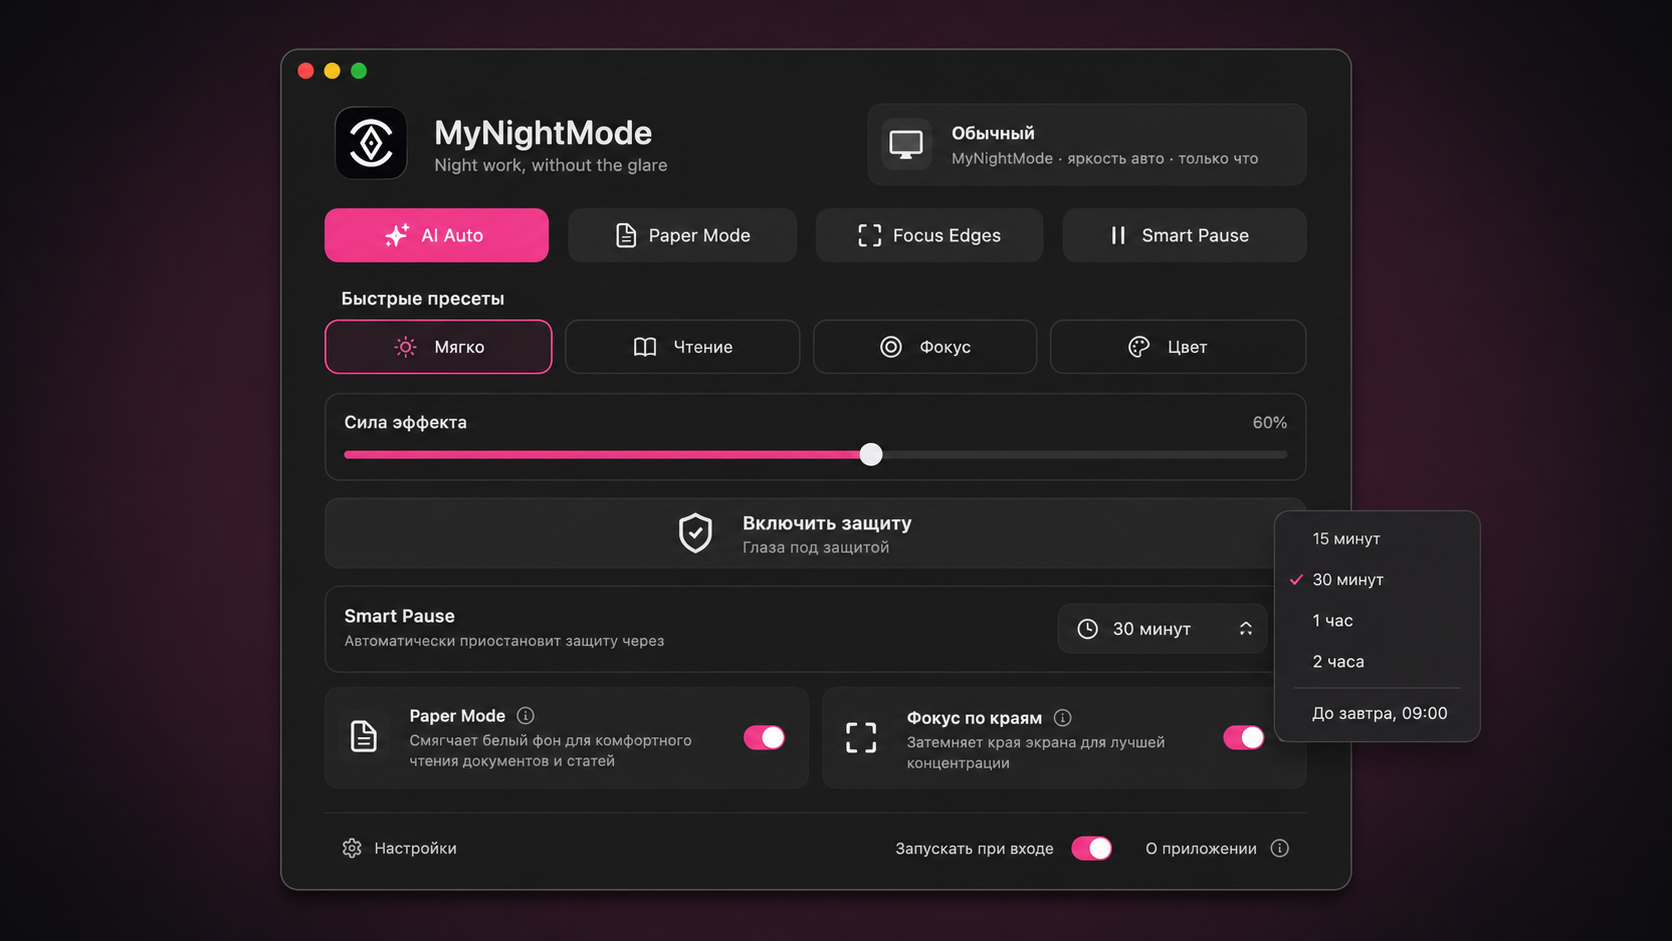
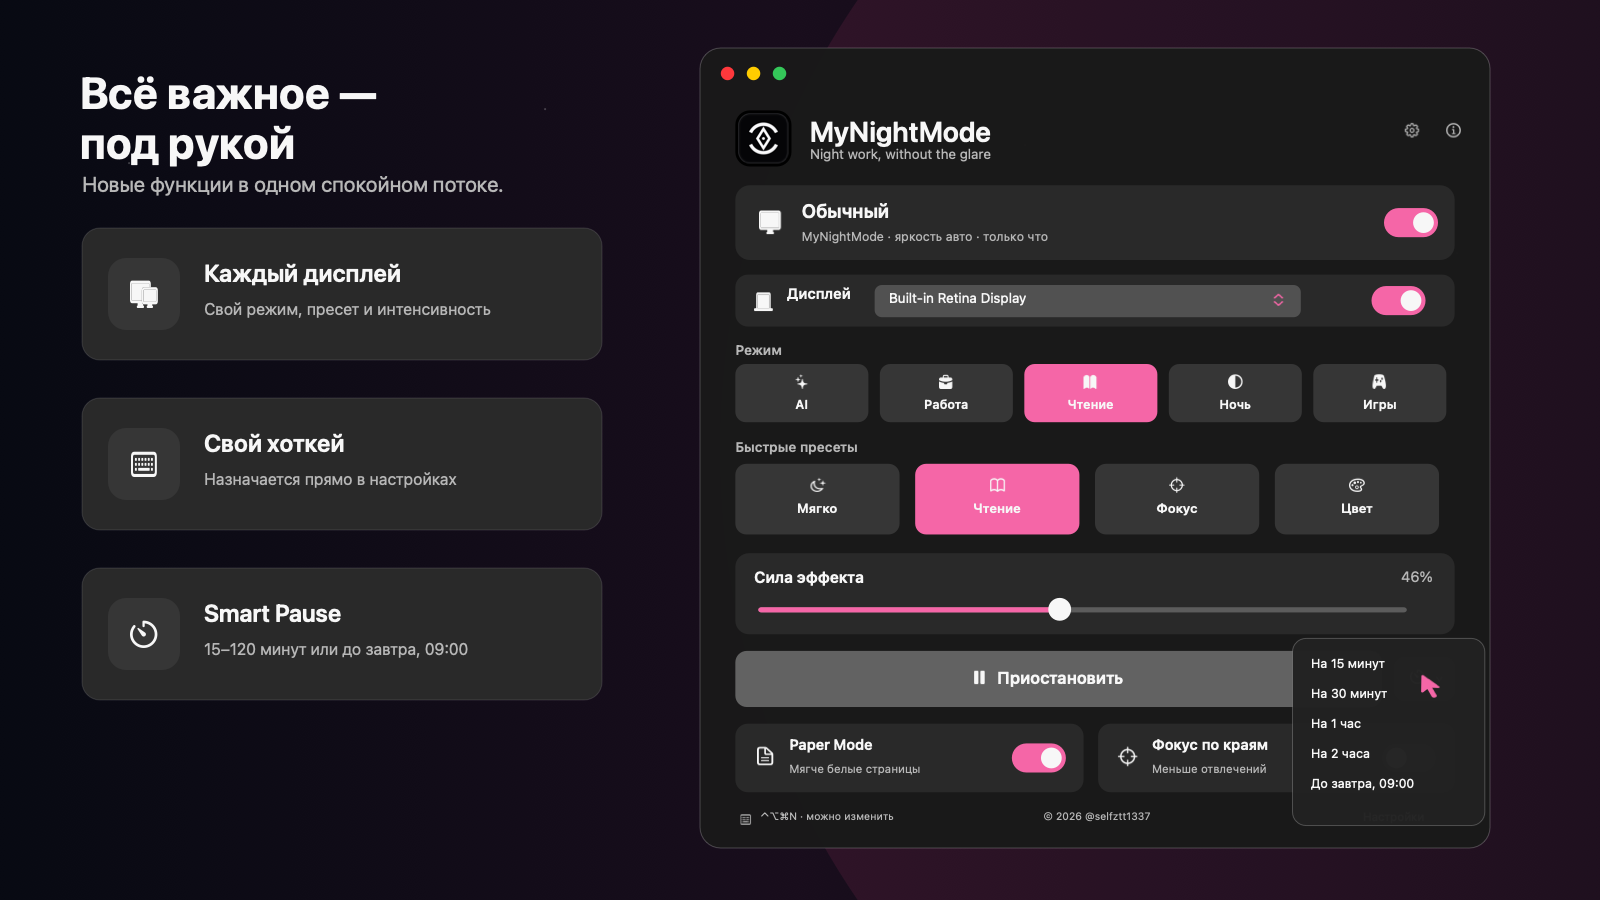
docs: refresh README product visuals

diff --git a/scripts/generate_readme_visuals.swift b/scripts/generate_readme_visuals.swift
@@ -1,0 +1,353 @@
+import AppKit
+import ImageIO
+import UniformTypeIdentifiers
+
+private let pink = NSColor(calibratedRed: 0.94, green: 0.29, blue: 0.59, alpha: 1)
+private let ink = NSColor(calibratedRed: 0.035, green: 0.039, blue: 0.06, alpha: 1)
+private let panel = NSColor(calibratedWhite: 0.075, alpha: 0.97)
+private let card = NSColor(calibratedWhite: 0.16, alpha: 1)
+private let cardSoft = NSColor(calibratedWhite: 0.12, alpha: 1)
+private let white = NSColor(calibratedWhite: 0.96, alpha: 1)
+private let muted = NSColor(calibratedWhite: 0.66, alpha: 1)
+
+private struct UIState {
+    var preset = 0
+    var intensity = 0.34
+    var paper = true
+    var focus = false
+    var menuProgress = 0.0
+    var cursor = CGPoint(x: 0, y: 0)
+}
+
+private final class DrawingView: NSView {
+    let handler: (NSRect) -> Void
+    override var isFlipped: Bool { true }
+
+    init(size: CGSize, handler: @escaping (NSRect) -> Void) {
+        self.handler = handler
+        super.init(frame: NSRect(origin: .zero, size: size))
+    }
+
+    required init?(coder: NSCoder) { fatalError() }
+    override func draw(_ dirtyRect: NSRect) { handler(bounds) }
+}
+
+private func image(size: CGSize, draw: @escaping (NSRect) -> Void) -> NSImage {
+    let view = DrawingView(size: size, handler: draw)
+    let rep = NSBitmapImageRep(
+        bitmapDataPlanes: nil,
+        pixelsWide: Int(size.width),
+        pixelsHigh: Int(size.height),
+        bitsPerSample: 8,
+        samplesPerPixel: 4,
+        hasAlpha: true,
+        isPlanar: false,
+        colorSpaceName: .deviceRGB,
+        bytesPerRow: 0,
+        bitsPerPixel: 0
+    )!
+    view.cacheDisplay(in: view.bounds, to: rep)
+    let result = NSImage(size: size)
+    result.addRepresentation(rep)
+    return result
+}
+
+private func savePNG(_ image: NSImage, path: String) {
+    guard let data = image.tiffRepresentation,
+          let rep = NSBitmapImageRep(data: data),
+          let png = rep.representation(using: .png, properties: [:]) else { fatalError("PNG") }
+    try! png.write(to: URL(fileURLWithPath: path))
+}
+
+private func cgImage(_ image: NSImage) -> CGImage {
+    var rect = NSRect(origin: .zero, size: image.size)
+    return image.cgImage(forProposedRect: &rect, context: nil, hints: nil)!
+}
+
+private func saveGIF(_ frames: [NSImage], path: String, delay: Double) {
+    let url = URL(fileURLWithPath: path) as CFURL
+    let destination = CGImageDestinationCreateWithURL(url, UTType.gif.identifier as CFString, frames.count, nil)!
+    CGImageDestinationSetProperties(destination, [
+        kCGImagePropertyGIFDictionary: [kCGImagePropertyGIFLoopCount: 0]
+    ] as CFDictionary)
+    for frame in frames {
+        CGImageDestinationAddImage(destination, cgImage(frame), [
+            kCGImagePropertyGIFDictionary: [kCGImagePropertyGIFDelayTime: delay]
+        ] as CFDictionary)
+    }
+    guard CGImageDestinationFinalize(destination) else { fatalError("GIF") }
+}
+
+private func rounded(_ rect: CGRect, radius: CGFloat, color: NSColor, stroke: NSColor? = nil, width: CGFloat = 1) {
+    let path = NSBezierPath(roundedRect: rect, xRadius: radius, yRadius: radius)
+    color.setFill()
+    path.fill()
+    if let stroke {
+        stroke.setStroke()
+        path.lineWidth = width
+        path.stroke()
+    }
+}
+
+private func text(
+    _ value: String,
+    x: CGFloat,
+    y: CGFloat,
+    size: CGFloat,
+    color: NSColor = white,
+    weight: NSFont.Weight = .regular,
+    width: CGFloat = 1000,
+    alignment: NSTextAlignment = .left
+) {
+    let style = NSMutableParagraphStyle()
+    style.alignment = alignment
+    (value as NSString).draw(
+        in: CGRect(x: x, y: y, width: width, height: size * 1.45),
+        withAttributes: [
+            .font: NSFont.systemFont(ofSize: size, weight: weight),
+            .foregroundColor: color,
+            .paragraphStyle: style
+        ]
+    )
+}
+
+private func symbol(_ name: String, x: CGFloat, y: CGFloat, size: CGFloat, color: NSColor = white) {
+    guard let base = NSImage(systemSymbolName: name, accessibilityDescription: nil) else { return }
+    let config = NSImage.SymbolConfiguration(pointSize: size, weight: .medium)
+        .applying(NSImage.SymbolConfiguration(paletteColors: [color]))
+    let icon = base.withSymbolConfiguration(config) ?? base
+    icon.draw(in: CGRect(x: x, y: y, width: size, height: size))
+}
+
+private func background(_ bounds: CGRect) {
+    NSGradient(colors: [
+        ink,
+        NSColor(calibratedRed: 0.075, green: 0.045, blue: 0.085, alpha: 1),
+        ink
+    ])!.draw(in: bounds, angle: 0)
+    NSColor(calibratedRed: 0.9, green: 0.17, blue: 0.48, alpha: 0.10).setFill()
+    NSBezierPath(ovalIn: CGRect(x: bounds.width * 0.45, y: -bounds.height * 0.35, width: bounds.width * 0.9, height: bounds.height * 1.7)).fill()
+    let stars = [(0.08,0.18),(0.14,0.72),(0.22,0.34),(0.34,0.12),(0.48,0.81),(0.64,0.16),(0.78,0.74),(0.91,0.28)]
+    for (sx, sy) in stars {
+        NSColor.white.withAlphaComponent(0.22).setFill()
+        NSBezierPath(ovalIn: CGRect(x: bounds.width * sx, y: bounds.height * sy, width: 2.2, height: 2.2)).fill()
+    }
+}
+
+private func toggle(x: CGFloat, y: CGFloat, on: Bool, scale: CGFloat = 1) {
+    rounded(CGRect(x: x, y: y, width: 52 * scale, height: 28 * scale), radius: 14 * scale, color: on ? pink : NSColor(calibratedWhite: 0.28, alpha: 1))
+    let knobX = on ? x + 28 * scale : x + 4 * scale
+    rounded(CGRect(x: knobX, y: y + 4 * scale, width: 20 * scale, height: 20 * scale), radius: 10 * scale, color: white)
+}
+
+private func controlButton(_ title: String, symbolName: String, rect: CGRect, selected: Bool) {
+    rounded(rect, radius: 11, color: selected ? pink : card)
+    symbol(symbolName, x: rect.midX - 9, y: rect.minY + 12, size: 18)
+    text(title, x: rect.minX, y: rect.minY + 36, size: 13, weight: .semibold, width: rect.width, alignment: .center)
+}
+
+private func drawAppWindow(rect: CGRect, state: UIState, compact: Bool = false) {
+    let s = rect.width / 760
+    func X(_ v: CGFloat) -> CGFloat { rect.minX + v * s }
+    func Y(_ v: CGFloat) -> CGFloat { rect.minY + v * s }
+    func R(_ x: CGFloat, _ y: CGFloat, _ w: CGFloat, _ h: CGFloat) -> CGRect {
+        CGRect(x: X(x), y: Y(y), width: w * s, height: h * s)
+    }
+
+    rounded(rect, radius: 20 * s, color: panel, stroke: NSColor.white.withAlphaComponent(0.22), width: 1)
+    for (index, color) in [NSColor.systemRed, .systemYellow, .systemGreen].enumerated() {
+        rounded(R(20 + CGFloat(index) * 25, 18, 13, 13), radius: 7 * s, color: color)
+    }
+
+    rounded(R(34, 60, 54, 54), radius: 14 * s, color: NSColor.black)
+    let appIconPath = FileManager.default.currentDirectoryPath + "/Resources/AppIcon1024.png"
+    if let appIcon = NSImage(contentsOfFile: appIconPath) {
+        appIcon.draw(in: R(34, 60, 54, 54))
+    } else {
+        text("◈", x: X(43), y: Y(65), size: 32 * s, weight: .bold, width: 36 * s, alignment: .center)
+    }
+    text("MyNightMode", x: X(106), y: Y(64), size: 27 * s, weight: .semibold)
+    text("Night work, without the glare", x: X(106), y: Y(94), size: 13 * s, color: muted)
+    symbol("gearshape", x: X(676), y: Y(70), size: 18 * s, color: muted)
+    symbol("info.circle", x: X(716), y: Y(70), size: 18 * s, color: muted)
+
+    rounded(R(34, 132, 692, 72), radius: 14 * s, color: cardSoft)
+    symbol("display", x: X(54), y: Y(153), size: 28 * s)
+    text("Обычный", x: X(98), y: Y(146), size: 18 * s, weight: .semibold)
+    text("MyNightMode · яркость авто · только что", x: X(98), y: Y(174), size: 12 * s, color: muted)
+    toggle(x: X(658), y: Y(154), on: true, scale: s)
+
+    rounded(R(34, 218, 692, 50), radius: 12 * s, color: cardSoft)
+    symbol("laptopcomputer", x: X(50), y: Y(233), size: 22 * s)
+    text("Дисплей", x: X(84), y: Y(228), size: 14 * s, weight: .semibold)
+    rounded(R(168, 228, 410, 31), radius: 7 * s, color: NSColor(calibratedWhite: 0.25, alpha: 1))
+    text("Built-in Retina Display", x: X(182), y: Y(232), size: 13 * s)
+    symbol("chevron.up.chevron.down", x: X(550), y: Y(235), size: 14 * s, color: pink)
+    toggle(x: X(646), y: Y(229), on: true, scale: s)
+
+    text("Режим", x: X(34), y: Y(282), size: 13 * s, color: muted, weight: .semibold)
+    let modes = [("AI","sparkles"),("Работа","briefcase.fill"),("Чтение","book.fill"),("Ночь","circle.lefthalf.filled"),("Игры","gamecontroller.fill")]
+    for (index, item) in modes.enumerated() {
+        let modeSelected = index == (state.preset == 1 ? 2 : state.preset == 2 ? 1 : 0)
+        let r = R(34 + CGFloat(index) * 139, 304, 128, 56)
+        rounded(r, radius: 10 * s, color: modeSelected ? pink : card)
+        symbol(item.1, x: r.midX - 8 * s, y: r.minY + 9 * s, size: 16 * s)
+        text(item.0, x: r.minX, y: r.minY + 31 * s, size: 12 * s, weight: .semibold, width: r.width, alignment: .center)
+    }
+
+    text("Быстрые пресеты", x: X(34), y: Y(376), size: 13 * s, color: muted, weight: .semibold)
+    let presets = [("Мягко","moon.stars"),("Чтение","book"),("Фокус","scope"),("Цвет","paintpalette")]
+    for (index, item) in presets.enumerated() {
+        let r = R(34 + CGFloat(index) * 173, 400, 158, 68)
+        controlButton(item.0, symbolName: item.1, rect: r, selected: state.preset == index)
+    }
+
+    rounded(R(34, 486, 692, 78), radius: 13 * s, color: cardSoft)
+    text("Сила эффекта", x: X(52), y: Y(500), size: 15 * s, weight: .semibold)
+    text("\(Int(state.intensity * 100))%", x: X(650), y: Y(500), size: 14 * s, color: muted, width: 55 * s, alignment: .right)
+    rounded(R(56, 538, 624, 5), radius: 3 * s, color: NSColor(calibratedWhite: 0.29, alpha: 1))
+    rounded(R(56, 538, 624 * state.intensity, 5), radius: 3 * s, color: pink)
+    rounded(R(48 + 624 * state.intensity, 529, 22, 22), radius: 11 * s, color: white)
+
+    rounded(R(34, 580, 622, 54), radius: 11 * s, color: NSColor(calibratedWhite: 0.31, alpha: 1))
+    symbol("pause.fill", x: X(262), y: Y(598), size: 15 * s)
+    text("Приостановить", x: X(286), y: Y(596), size: 16 * s, weight: .semibold)
+    rounded(R(668, 586, 58, 42), radius: 10 * s, color: cardSoft)
+    symbol("timer", x: X(681), y: Y(596), size: 18 * s)
+    symbol("chevron.down", x: X(707), y: Y(602), size: 9 * s)
+
+    rounded(R(34, 650, 335, 66), radius: 12 * s, color: cardSoft)
+    symbol("doc.text", x: X(52), y: Y(670), size: 22 * s)
+    text("Paper Mode", x: X(86), y: Y(661), size: 14 * s, weight: .semibold)
+    text("Мягче белые страницы", x: X(86), y: Y(686), size: 11 * s, color: muted)
+    toggle(x: X(300), y: Y(669), on: state.paper, scale: s)
+
+    rounded(R(383, 650, 343, 66), radius: 12 * s, color: cardSoft)
+    symbol("scope", x: X(401), y: Y(670), size: 22 * s)
+    text("Фокус по краям", x: X(435), y: Y(661), size: 14 * s, weight: .semibold)
+    text("Меньше отвлечений", x: X(435), y: Y(686), size: 11 * s, color: muted)
+    toggle(x: X(656), y: Y(669), on: state.focus, scale: s)
+
+    symbol("keyboard", x: X(38), y: Y(735), size: 13 * s, color: muted)
+    text("⌃⌥⌘N · можно изменить", x: X(58), y: Y(733), size: 10 * s, color: muted)
+    text("© 2026 @selfztt1337", x: X(272), y: Y(733), size: 10 * s, color: muted, width: 220 * s, alignment: .center)
+    text("Настройки", x: X(638), y: Y(733), size: 11 * s, color: white)
+
+    if state.menuProgress > 0 {
+        let progress = state.menuProgress
+        let menuHeight = 180 * s * progress
+        let menuRect = CGRect(x: X(570), y: Y(568), width: 185 * s, height: menuHeight)
+        rounded(menuRect, radius: 13 * s, color: NSColor(calibratedWhite: 0.10, alpha: 0.98), stroke: NSColor.white.withAlphaComponent(0.22))
+        if progress > 0.6 {
+            let labels = ["На 15 минут", "На 30 минут", "На 1 час", "На 2 часа", "До завтра, 09:00"]
+            for (index, label) in labels.enumerated() {
+                text(label, x: X(588), y: Y(584 + CGFloat(index) * 29), size: 12 * s)
+            }
+        }
+    }
+
+    if state.cursor != .zero {
+        symbol("cursorarrow", x: rect.minX + state.cursor.x * s, y: rect.minY + state.cursor.y * s, size: 27 * s, color: pink)
+    }
+}
+
+private func hero() -> NSImage {
+    image(size: CGSize(width: 1800, height: 1000)) { bounds in
+        background(bounds)
+        text("MyNightMode", x: 100, y: 342, size: 67, weight: .bold)
+        text("Спокойный экран для долгой работы", x: 102, y: 440, size: 29, color: muted)
+        text("вечером и ночью.", x: 102, y: 482, size: 29, color: muted)
+        text("AI Auto  ·  Multi-display  ·  Smart Pause", x: 102, y: 560, size: 18, weight: .semibold)
+        text("Custom Hotkey  ·  Paper Mode  ·  Focus Edges", x: 102, y: 592, size: 18, weight: .semibold)
+        drawAppWindow(
+            rect: CGRect(x: 735, y: 55, width: 790, height: 820),
+            state: UIState(preset: 2, intensity: 0.52, paper: false, focus: true)
+        )
+    }
+}
+
+private func demoFrame(_ progress: Double) -> NSImage {
+    var state = UIState()
+    if progress < 0.28 {
+        state.preset = 0
+        state.intensity = 0.34
+        state.paper = true
+        state.cursor = CGPoint(x: 190 + 165 * (progress / 0.28), y: 420)
+    } else if progress < 0.56 {
+        let local = (progress - 0.28) / 0.28
+        state.preset = 1
+        state.intensity = 0.34 + (0.46 - 0.34) * local
+        state.paper = true
+        state.cursor = CGPoint(x: 355 + 165 * local, y: 420)
+    } else if progress < 0.80 {
+        let local = (progress - 0.56) / 0.24
+        state.preset = 2
+        state.intensity = 0.46 + (0.52 - 0.46) * local
+        state.paper = local < 0.45
+        state.focus = local > 0.35
+        state.cursor = CGPoint(x: 520 + 180 * local, y: 420 + 165 * local)
+    } else {
+        let local = (progress - 0.80) / 0.20
+        state.preset = 2
+        state.intensity = 0.52
+        state.focus = true
+        state.cursor = CGPoint(x: 690, y: 600)
+        state.menuProgress = min(1, local * 1.5)
+    }
+    return image(size: CGSize(width: 1200, height: 820)) { bounds in
+        background(bounds)
+        drawAppWindow(rect: CGRect(x: 220, y: 22, width: 760, height: 770), state: state)
+    }
+}
+
+private func comfortFrame(focus: Bool) -> NSImage {
+    image(size: CGSize(width: 1200, height: 760)) { bounds in
+        background(bounds)
+        text(focus ? "Глубокий фокус" : "Долгое чтение", x: 70, y: 70, size: 42, weight: .bold)
+        text(
+            focus ? "Спокойный центр, меньше отвлечений." : "Мягкий фон без лишнего контраста.",
+            x: 72, y: 130, size: 18, color: muted, width: 340
+        )
+        let state = UIState(preset: focus ? 2 : 1, intensity: focus ? 0.52 : 0.46, paper: !focus, focus: focus)
+        drawAppWindow(rect: CGRect(x: 445, y: 30, width: 650, height: 660), state: state, compact: true)
+    }
+}
+
+private func featureOverview() -> NSImage {
+    image(size: CGSize(width: 1600, height: 900)) { bounds in
+        background(bounds)
+        text("Всё важное —", x: 80, y: 66, size: 44, weight: .bold, width: 540)
+        text("под рукой", x: 80, y: 116, size: 44, weight: .bold, width: 540)
+        text("Новые функции в одном спокойном потоке.", x: 82, y: 172, size: 21, color: muted, width: 530)
+
+        let items = [
+            ("display.2", "Каждый дисплей", "Свой режим, пресет и интенсивность"),
+            ("keyboard", "Свой хоткей", "Назначается прямо в настройках"),
+            ("timer", "Smart Pause", "15–120 минут или до завтра, 09:00")
+        ]
+        for (index, item) in items.enumerated() {
+            let y = 228 + CGFloat(index) * 170
+            rounded(CGRect(x: 82, y: y, width: 520, height: 132), radius: 18, color: cardSoft, stroke: NSColor.white.withAlphaComponent(0.12))
+            rounded(CGRect(x: 108, y: y + 30, width: 72, height: 72), radius: 18, color: card)
+            symbol(item.0, x: 128, y: y + 50, size: 32)
+            text(item.1, x: 204, y: y + 31, size: 24, weight: .semibold)
+            text(item.2, x: 204, y: y + 72, size: 16, color: muted)
+        }
+
+        var state = UIState(preset: 1, intensity: 0.46, paper: true, focus: false)
+        state.menuProgress = 1
+        state.cursor = CGPoint(x: 690, y: 600)
+        drawAppWindow(rect: CGRect(x: 700, y: 48, width: 790, height: 800), state: state)
+    }
+}
+
+let root = URL(fileURLWithPath: FileManager.default.currentDirectoryPath)
+savePNG(hero(), path: root.appendingPathComponent("Docs/showcase/hero.png").path)
+let demoFrames = (0..<48).map { demoFrame(Double($0) / 47.0) }
+saveGIF(demoFrames, path: root.appendingPathComponent("Docs/assets/interface-current.gif").path, delay: 0.085)
+saveGIF(
+    [comfortFrame(focus: false), comfortFrame(focus: true)],
+    path: root.appendingPathComponent("Docs/showcase/comfort-modes.gif").path,
+    delay: 1.8
+)
+savePNG(featureOverview(), path: root.appendingPathComponent("Docs/showcase/smart-pause.png").path)

diff --git a/README.md b/README.md
@@ -32,15 +32,10 @@
 ## Интерфейс
 
 <p align="center">
-  <img src="Docs/assets/interface-current.gif" width="520" alt="Реальное окно MyNightMode: переключение пресетов">
+  <img src="Docs/assets/interface-current.gif" width="760" alt="MyNightMode: выбор режима, пресета, интенсивности и Smart Pause">
 </p>
 
-<p align="center">
-  <img src="Docs/assets/main-window-current.png" width="400" alt="Главное окно MyNightMode">
-  <img src="Docs/assets/main-window-focus.png" width="400" alt="MyNightMode с выбранным пресетом Фокус">
-</p>
-
-GIF собран из настоящих снимков актуальной release-сборки приложения — без макетов и декоративной довёрстки.
+Плавная демонстрация показывает основной путь: выбор режима и пресета, настройку силы эффекта и запуск Smart Pause. Весь интерфейс остаётся в кадре.
 
 ## Комфорт при чтении и работе
 
@@ -48,11 +43,15 @@ GIF собран из настоящих снимков актуальной rel
   <img src="Docs/showcase/comfort-modes.gif" alt="Paper Mode and Focus Edges demonstration">
 </p>
 
-## Smart Pause
+## Управление и Smart Pause
 
 <p align="center">
-  <img src="Docs/showcase/smart-pause.png" alt="MyNightMode Smart Pause timer options">
+  <img src="Docs/showcase/smart-pause.png" alt="MyNightMode: отдельные настройки дисплеев, свой хоткей и Smart Pause">
 </p>
+
+- Отдельные режим, пресет и интенсивность для каждого подключённого дисплея.
+- Назначаемая пользователем глобальная горячая клавиша.
+- Smart Pause на 15, 30, 60 или 120 минут — либо до завтра, 09:00.
 
 ## Сборка
 
